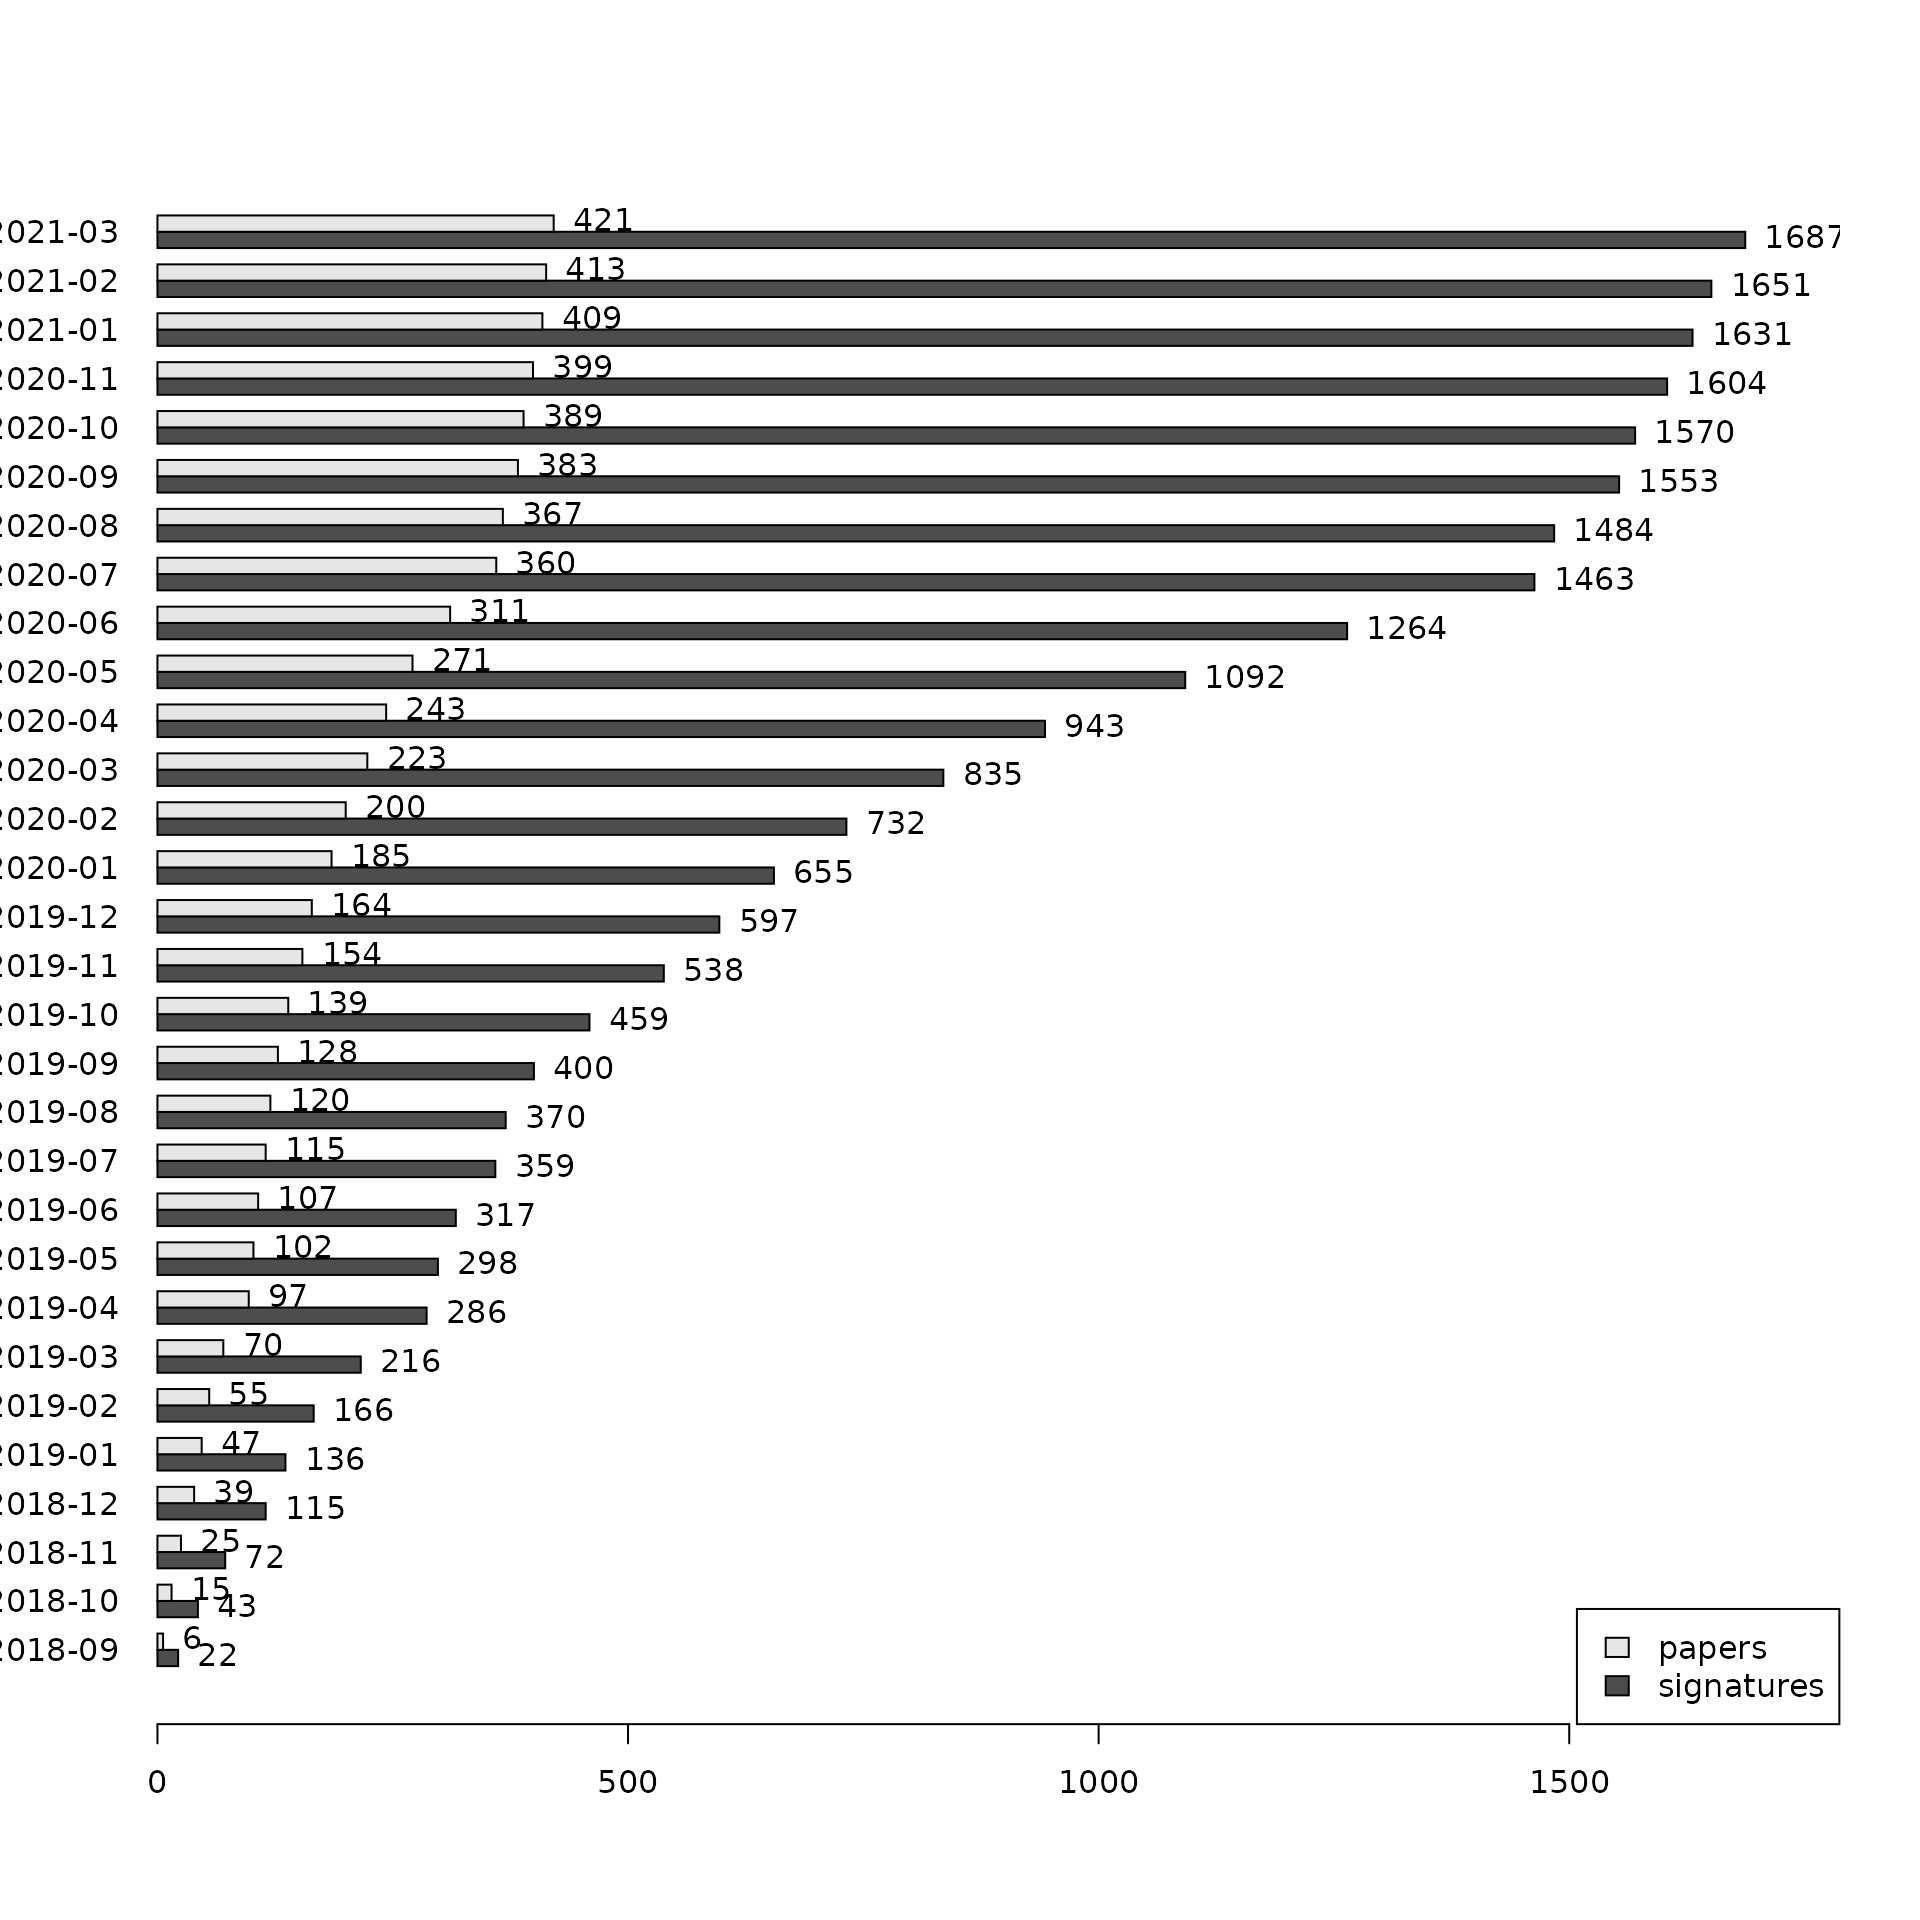
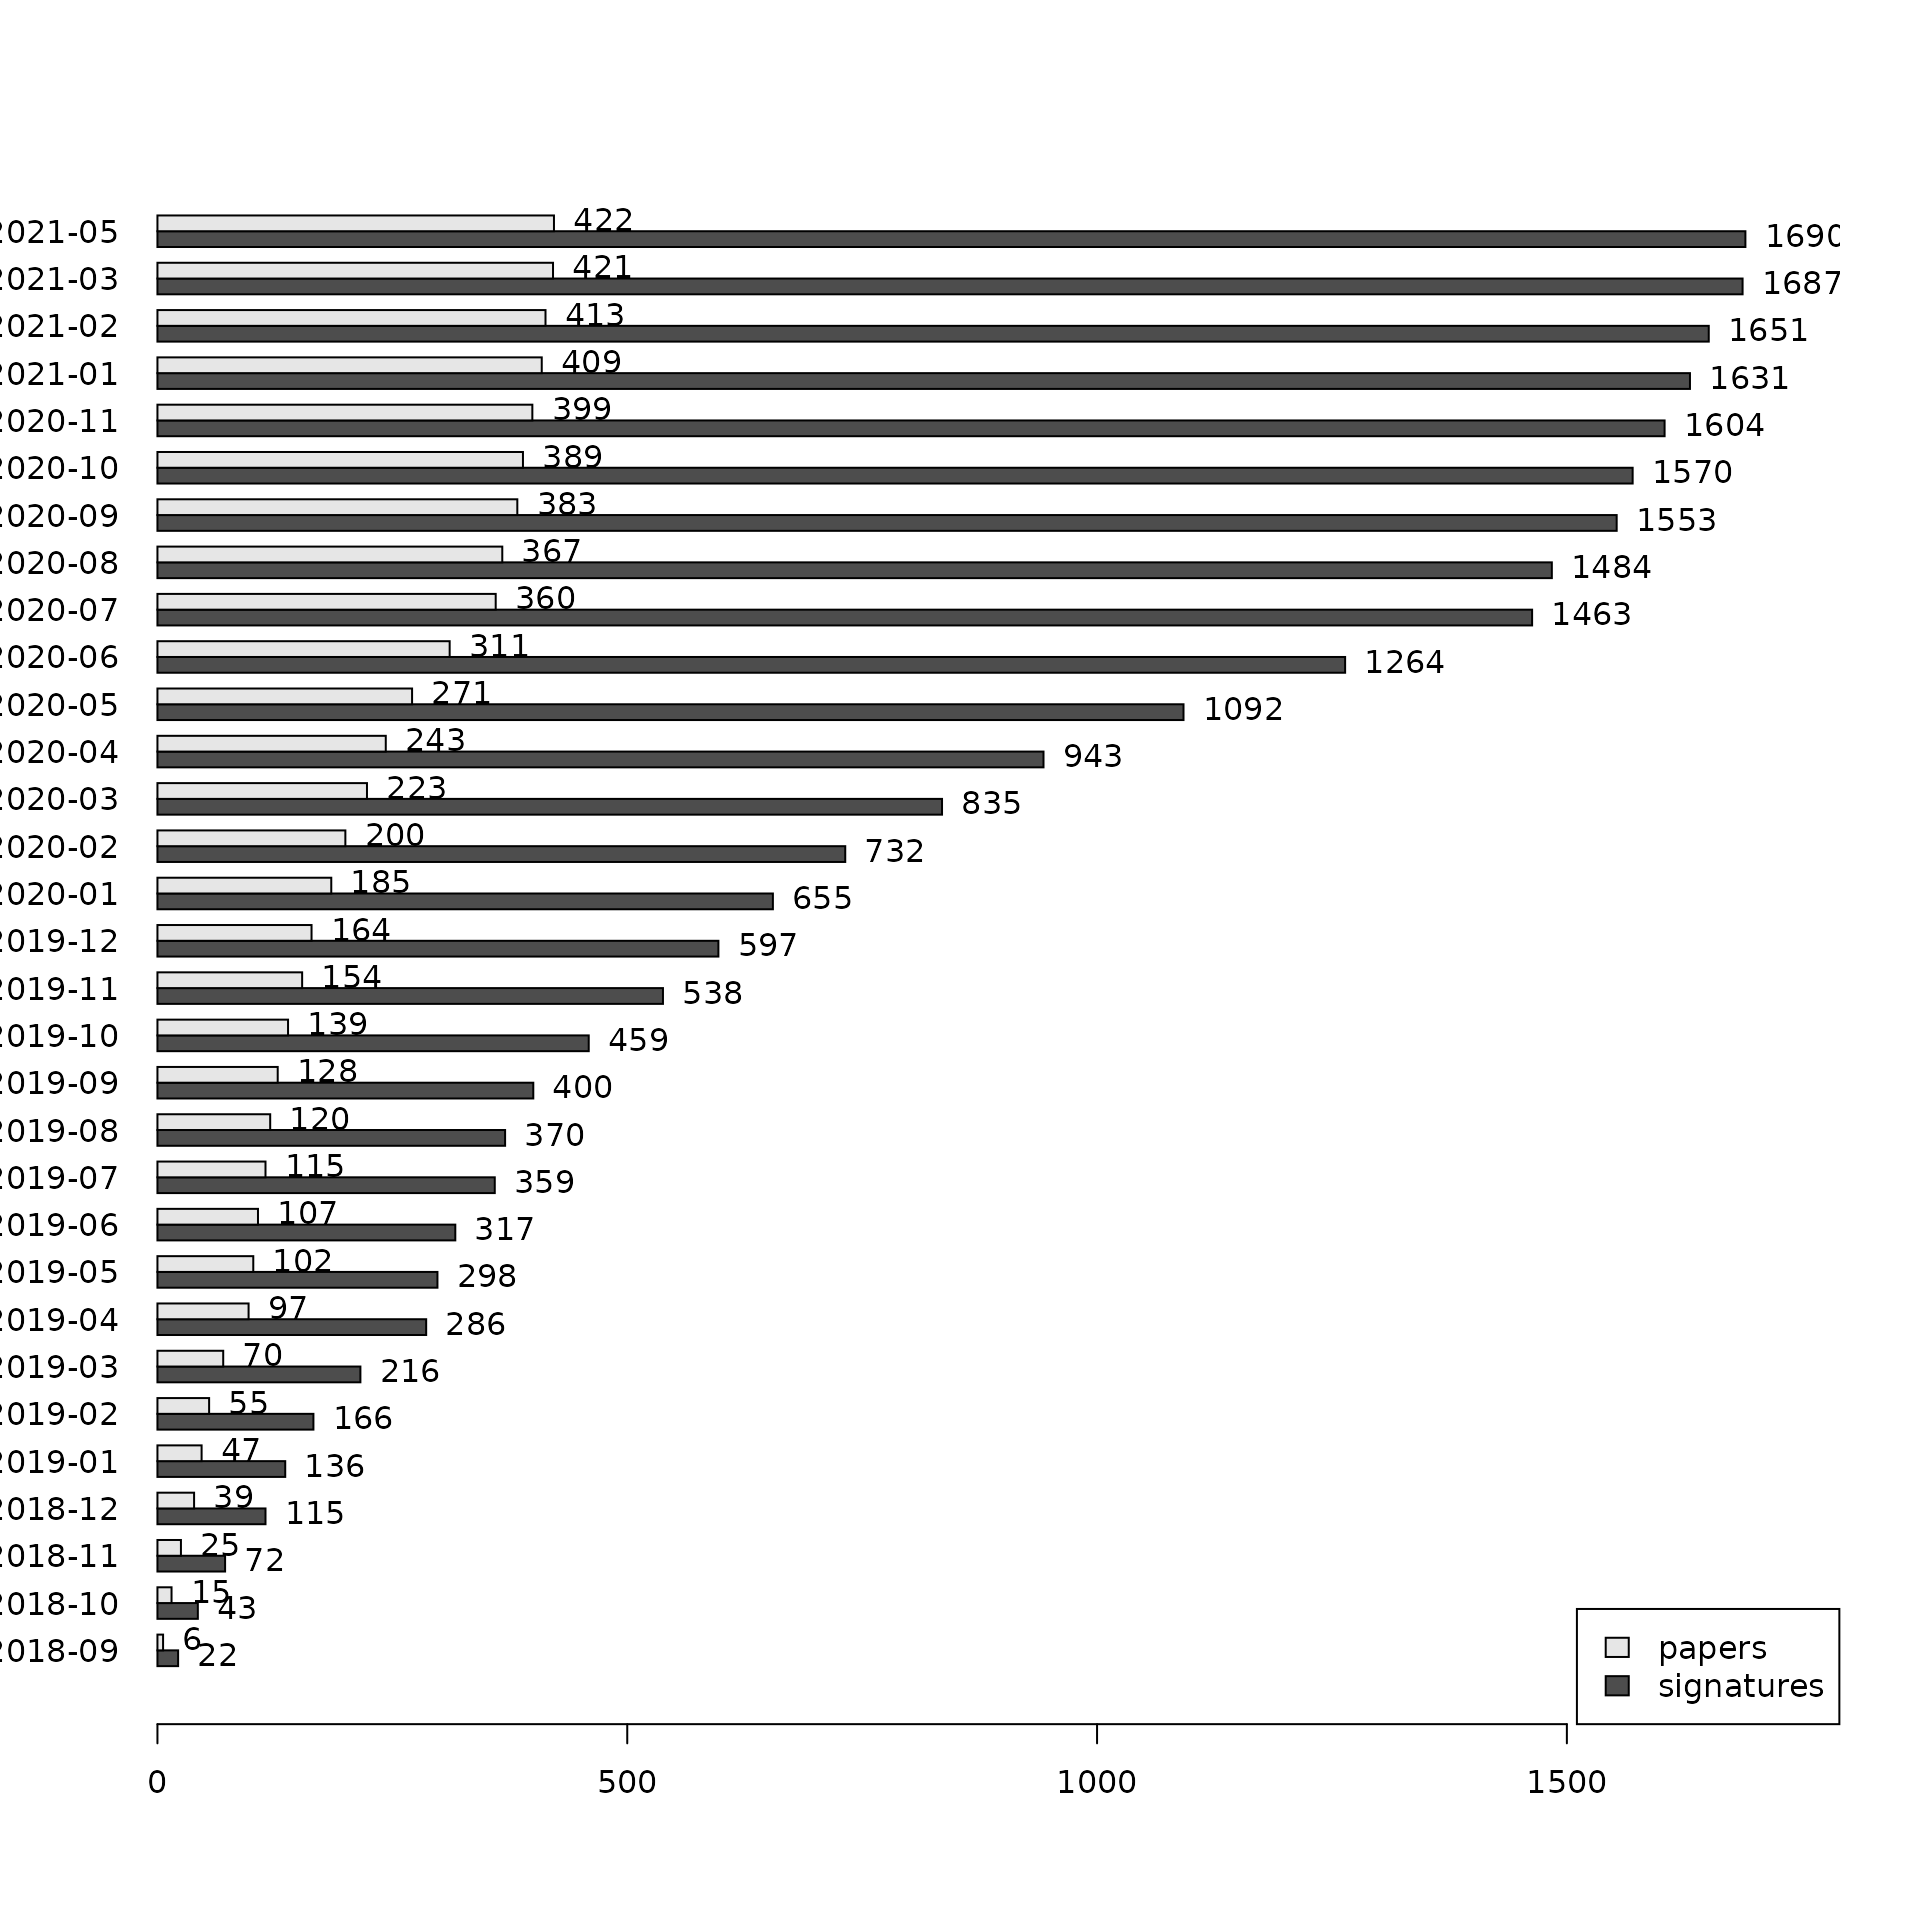
Deploying to gh-pages from  @ 73223ce294398b5d8837817862473400aee4ad90 🚀

Changed region(s): [[0.0, 0.125, 0.9688, 0.8438], [0.8125, 0.9062, 0.8438, 0.9375], [0.5625, 0.9062, 0.5938, 0.9375]]

diff --git a/articles/BugSigDBStats.html b/articles/BugSigDBStats.html
@@ -85,7 +85,7 @@
 <p>Get bulk export from bugsigdb.org:</p>
 <div class="sourceCode" id="cb2"><pre class="downlit">
 <span class="va">full.dat</span> <span class="op">&lt;-</span> <span class="fu">bugsigdbr</span><span class="fu">::</span><span class="fu"><a href="https://rdrr.io/pkg/bugsigdbr/man/importBugSigDB.html">importBugSigDB</a></span><span class="op">(</span><span class="op">)</span></pre></div>
-<pre><code>## using temporary cache /tmp/RtmpTwBjZ4/BiocFileCache</code></pre>
+<pre><code>## using temporary cache /tmp/Rtmpntghy0/BiocFileCache</code></pre>
 <pre><code>## 
 ## ── Column specification ────────────────────────────────────────────────────────
 ## cols(
@@ -129,7 +129,7 @@
 ## )</code></pre>
 <div class="sourceCode" id="cb7"><pre class="downlit">
 <span class="fu"><a href="https://rdrr.io/r/base/dim.html">dim</a></span><span class="op">(</span><span class="va">full.dat</span><span class="op">)</span></pre></div>
-<pre><code>## [1] 1719   45</code></pre>
+<pre><code>## [1] 1721   45</code></pre>
 <div class="sourceCode" id="cb9"><pre class="downlit">
 <span class="fu"><a href="https://rdrr.io/r/base/colnames.html">colnames</a></span><span class="op">(</span><span class="va">full.dat</span><span class="op">)</span></pre></div>
 <pre><code>##  [1] "Study"                      "Study design"              
@@ -166,7 +166,7 @@
 <pre><code>## [1] 426</code></pre>
 <div class="sourceCode" id="cb13"><pre class="downlit">
 <span class="fu"><a href="https://rdrr.io/r/base/nrow.html">nrow</a></span><span class="op">(</span><span class="va">full.dat</span><span class="op">)</span></pre></div>
-<pre><code>## [1] 1719</code></pre>
+<pre><code>## [1] 1721</code></pre>
 <p>Publication date of the curated papers:</p>
 <div class="sourceCode" id="cb15"><pre class="downlit">
 <span class="va">pmids</span> <span class="op">&lt;-</span> <span class="va">pmids</span><span class="op">[</span><span class="op">!</span><span class="fu"><a href="https://rdrr.io/r/base/NA.html">is.na</a></span><span class="op">(</span><span class="va">pmids</span><span class="op">)</span><span class="op">]</span>
@@ -196,11 +196,11 @@
 <span class="co"># more realistic estimation of number of signatures curated</span>
 <span class="va">dat</span> <span class="op">&lt;-</span> <span class="fu"><a href="../reference/stripEmptySignatures.html">stripEmptySignatures</a></span><span class="op">(</span><span class="va">full.dat</span><span class="op">)</span>
 <span class="fu"><a href="https://rdrr.io/r/base/nrow.html">nrow</a></span><span class="op">(</span><span class="va">dat</span><span class="op">)</span></pre></div>
-<pre><code>## [1] 1687</code></pre>
+<pre><code>## [1] 1690</code></pre>
 <p>Papers containing only empty UP and DOWN signatures (under curation?):</p>
 <div class="sourceCode" id="cb20"><pre class="downlit">
 <span class="fu"><a href="https://rdrr.io/r/base/sets.html">setdiff</a></span><span class="op">(</span><span class="va">pmids</span>, <span class="fu"><a href="https://rdrr.io/r/base/unique.html">unique</a></span><span class="op">(</span><span class="va">dat</span><span class="op">[</span>,<span class="st">"PMID"</span><span class="op">]</span><span class="op">)</span><span class="op">)</span></pre></div>
-<pre><code>## [1] 32295867 33431578 32937864 32415070 33264437</code></pre>
+<pre><code>## [1] 32295867 32937864 32415070 33264437</code></pre>
 <p>Progress over time:</p>
 <div class="sourceCode" id="cb22"><pre class="downlit">
 <span class="va">dat</span><span class="op">[</span>,<span class="st">"Curated date"</span><span class="op">]</span> <span class="op">&lt;-</span> <span class="fu"><a href="https://rdrr.io/r/base/character.html">as.character</a></span><span class="op">(</span><span class="fu">lubridate</span><span class="fu">::</span><span class="fu"><a href="http://lubridate.tidyverse.org/reference/ymd.html">dmy</a></span><span class="op">(</span><span class="va">dat</span><span class="op">[</span>,<span class="st">"Curated date"</span><span class="op">]</span><span class="op">)</span><span class="op">)</span>
@@ -218,16 +218,18 @@
 <div class="sourceCode" id="cb25"><pre class="downlit">
 <span class="fu"><a href="https://rdrr.io/r/base/table.html">table</a></span><span class="op">(</span><span class="va">dat</span><span class="op">[</span>,<span class="st">"Revision editor"</span><span class="op">]</span><span class="op">)</span></pre></div>
 <pre><code>## 
-##                    Cynthia Anderson                              Fatima 
-##                                   7                                   2 
-##                      Fatima,Yu Wang                       Lorakasselman 
-##                                   6                                   2 
-##                             Manuela                 Rimsha,WikiWorks743 
-##                                  11                                   2 
-##                           Valentina WikiWorks,WikiWorks743,WikiWorks753 
-##                                   2                                   1 
-##                        WikiWorks743           WikiWorks743,WikiWorks753 
-##                                1625                                   1</code></pre>
+##                           127.0.0.1                    Cynthia Anderson 
+##                                   2                                   7 
+##                              Fatima                      Fatima,Yu Wang 
+##                                   2                                   6 
+##                       Lorakasselman                             Manuela 
+##                                   2                                  11 
+##                 Rimsha,WikiWorks743                           Valentina 
+##                                   2                                   2 
+## WikiWorks,WikiWorks743,WikiWorks753                        WikiWorks743 
+##                                   1                                1625 
+##           WikiWorks743,WikiWorks753 
+##                                   1</code></pre>
 </div>
   </div>
 
